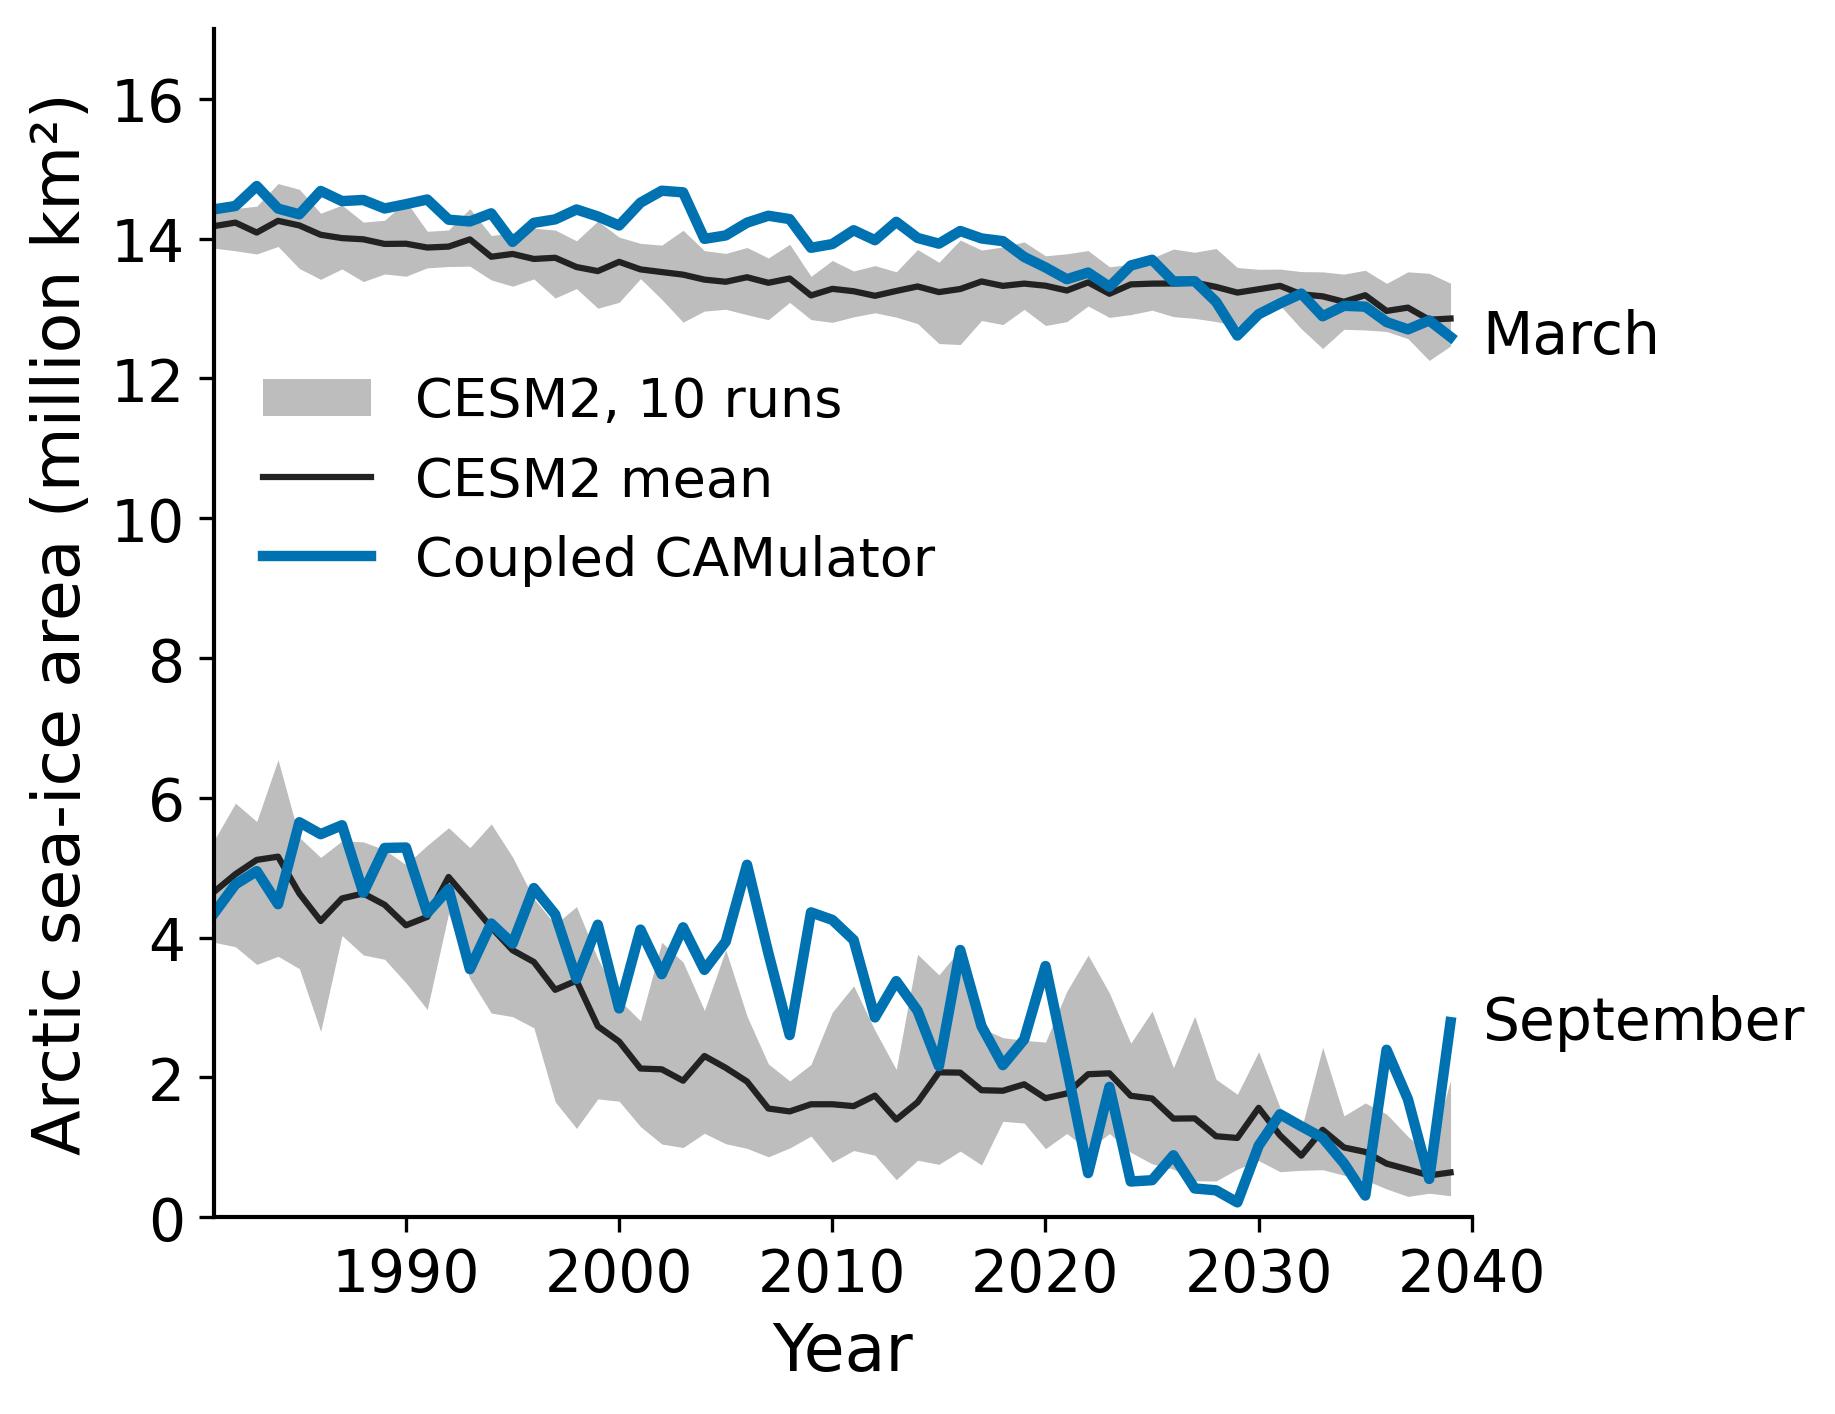
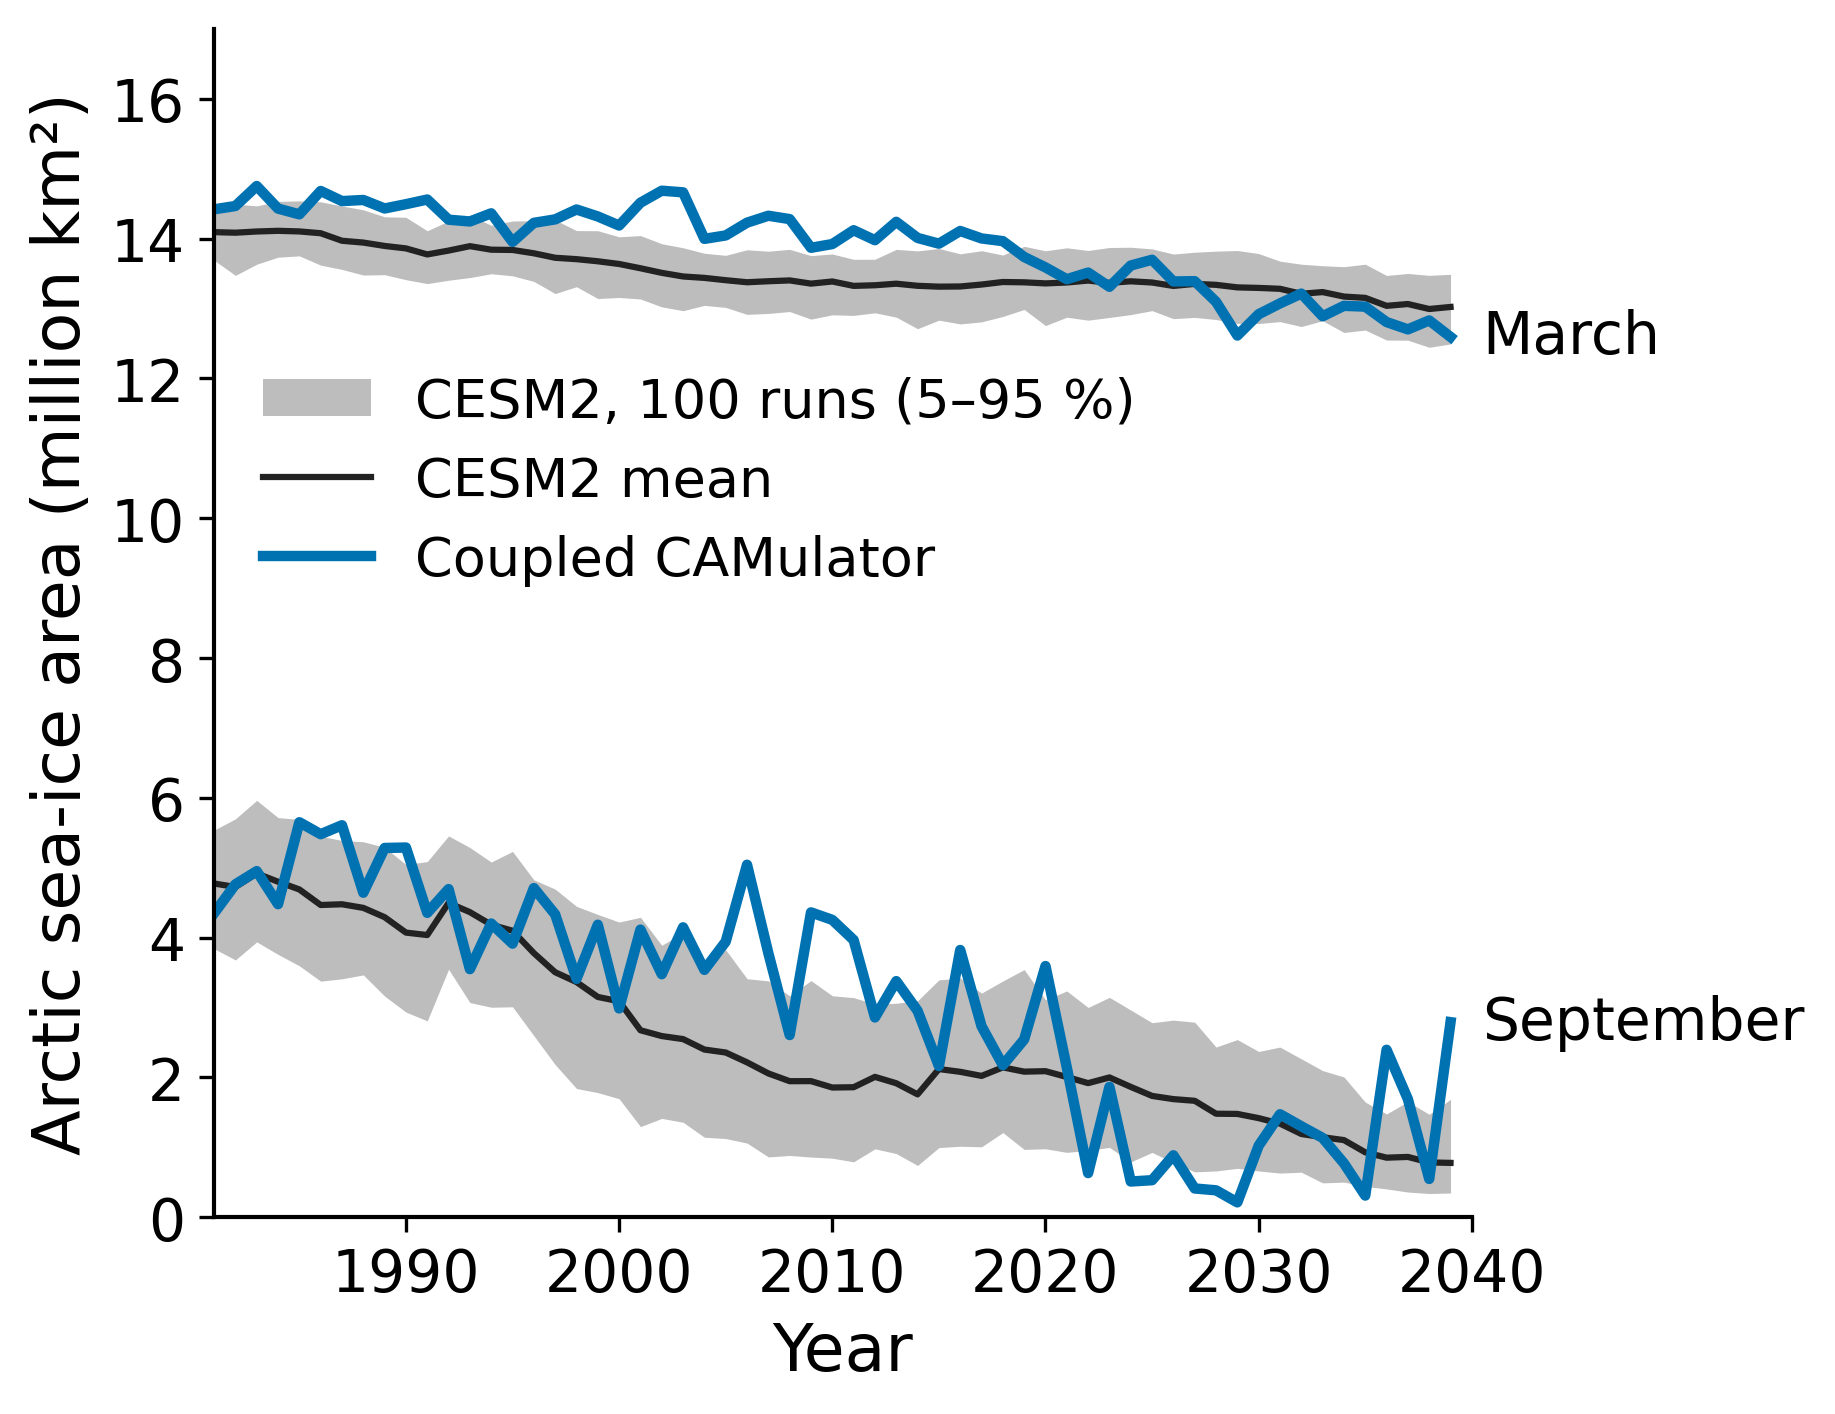
Coupling talk: 100-member sea-ice band, larger training figures, carbon calculator slide
Claude-Session: https://claude.ai/code/session_019tohpBUJwEthCgsnppvETT

diff --git a/style.css b/style.css
@@ -52,3 +52,5 @@
 .cm-couple-big .box { padding: 0.5rem 0.6rem; }
 .cm-fig-tall { max-height: 292px; }
 .cm-cols .cm-fig-ice { max-height: 255px; }
+.cm-fig-train-lg { width: 100%; display: block; margin: 0 auto; max-height: 222px; object-fit: contain; background: white; }
+.cm-fig-train-lg-b { max-height: 140px; margin-top: 0.2rem; }

diff --git a/camulator-coupling.md b/camulator-coupling.md
@@ -11,11 +11,11 @@ themeConfig:
   department: "Department of Atmospheric & Oceanic Sciences"
   footerNav:
     sections:
-      - { label: Background, start: 2, end: 5 }
-      - { label: The emulator, start: 6, end: 9 }
-      - { label: Coupling, start: 10, end: 15 }
-      - { label: Coupled climate, start: 16, end: 21 }
-      - { label: Next, start: 22, end: 23 }
+      - { label: Background, start: 2, end: 6 }
+      - { label: The emulator, start: 7, end: 10 }
+      - { label: Coupling, start: 11, end: 16 }
+      - { label: Coupled climate, start: 17, end: 22 }
+      - { label: Next, start: 23, end: 24 }
     hideOnCover: true
 ---
 
@@ -79,6 +79,18 @@ The coupled system was built by Yuanpu Li, a postdoc in the group, and most of t
 
 <!--
 A climate model divides the globe into boxes, about a hundred kilometres across here, stacked in layers from the ocean floor to the upper atmosphere. Separate programs solve the physics of the atmosphere, the ocean, the land and the sea ice, each stepping forward in time. A component called the coupler passes heat, water and momentum between them. One simulated year of NCAR's model, CESM2, costs 3,750 core-hours, and climate questions need hundreds or thousands of simulated years. The atmosphere is the most expensive component, so we replace it with a neural network. With the emulator as the atmosphere, the coupled model runs 55 to 60 simulated years per day on two CPU nodes and one GPU, about ten times faster than CESM2. The rest of the talk is about whether that faster model gives the right climate.
+-->
+
+---
+
+# Cost and energy of a coupled ensemble
+
+<div class="cm-lead">Coupled CAMulator: 55–60 simulated years per day on 2 Derecho nodes and 1 GPU, about 10× faster than CESM2 and 30× fewer core-hours.</div>
+
+<CarbonCalc />
+
+<!--
+Here is what the speed buys. Coupled to the CESM ocean and sea-ice models, the emulator runs 55 to 60 simulated years per day without any optimisation, about ten times faster than CESM2, and it uses about thirty times fewer core-hours. Most of the remaining time is spent in the ocean and sea ice, so the atmosphere is no longer the expensive part. The panel converts core-hours into energy and carbon for an ensemble the size of the CESM2 Large Ensemble. Those numbers depend on assumptions about hardware power and the electricity grid, and the assumptions are the sliders.
 -->
 
 ---
@@ -164,9 +176,9 @@ CAMulator takes the state of the atmosphere, winds, temperature and moisture on 
 
 # Training for stability over long runs
 
-<img src="/camulator/three_step_loss.png" class="cm-fig-train" alt="Three-step rollout: the network applied three times, with a squared error against CESM at each step" />
+<img src="/camulator/three_step_loss.png" class="cm-fig-train-lg" alt="Three-step rollout: the network applied three times, with a squared error against CESM at each step" />
 
-<img src="/camulator/conservation_blocks.png" class="cm-fig-train cm-fig-train-b" alt="Network output passed through post-blocks that enforce tracer positivity, dry-air mass, water and energy conservation" />
+<img src="/camulator/conservation_blocks.png" class="cm-fig-train-lg cm-fig-train-lg-b" alt="Network output passed through post-blocks that enforce tracer positivity, dry-air mass, water and energy conservation" />
 
 <div class="cm-src">Top: the loss sums the squared error over three consecutive six-hour steps. Bottom: final layers rescale the output so that global dry-air mass, water and energy are conserved; they are trained with the network.</div>
 
@@ -348,15 +360,15 @@ The first coupled runs were too cold everywhere, and the natural suspect was the
 
 <img src="/coupling/ice_series.png" class="cm-fig-col cm-fig-ice" alt="Arctic sea-ice area in March and September, 1981 to 2040, coupled CAMulator against 10 CESM2 runs" />
 
-<div class="cm-src">Arctic sea-ice area, 1981–2039. Grey: 10 CESM2 runs (higher-emissions scenario after 2015).</div>
+<div class="cm-src">Arctic sea-ice area, 1981–2039. Grey: 5–95 % of 100 CESM2 runs (higher-emissions scenario after 2015).</div>
 
 </div>
 </div>
 
-The seasonal cycle and decline follow CESM2; the run has 4 % more ice in March and 30 % more in September (1981–2014).
+The seasonal cycle and decline follow CESM2; the run has 5 % more ice in March and 26 % more in September (1981–2014).
 
 <!--
-The sea-ice model is fully physical and responds only to the fluxes the coupler computes from the emulator's state. The movie shows one year of the coupled Arctic: the ice thins through the summer, open water appears along the coasts, and the pack refreezes in autumn. The time series shows that this holds over decades. The winter maximum and the summer minimum both follow the range of ten CESM2 runs and decline at about the same rate. The coupled run has somewhat too much ice, 4 percent in March and 30 percent in September over 1981 to 2014, with the September excess largest in the 2000s.
+The sea-ice model is fully physical and responds only to the fluxes the coupler computes from the emulator's state. The movie shows one year of the coupled Arctic: the ice thins through the summer, open water appears along the coasts, and the pack refreezes in autumn. The time series shows that this holds over decades. The winter maximum and the summer minimum both follow the range of a hundred CESM2 runs and decline at about the same rate. The coupled run has somewhat too much ice, 5 percent in March and 26 percent in September over 1981 to 2014, with the September excess largest in the 2000s.
 -->
 
 ---
